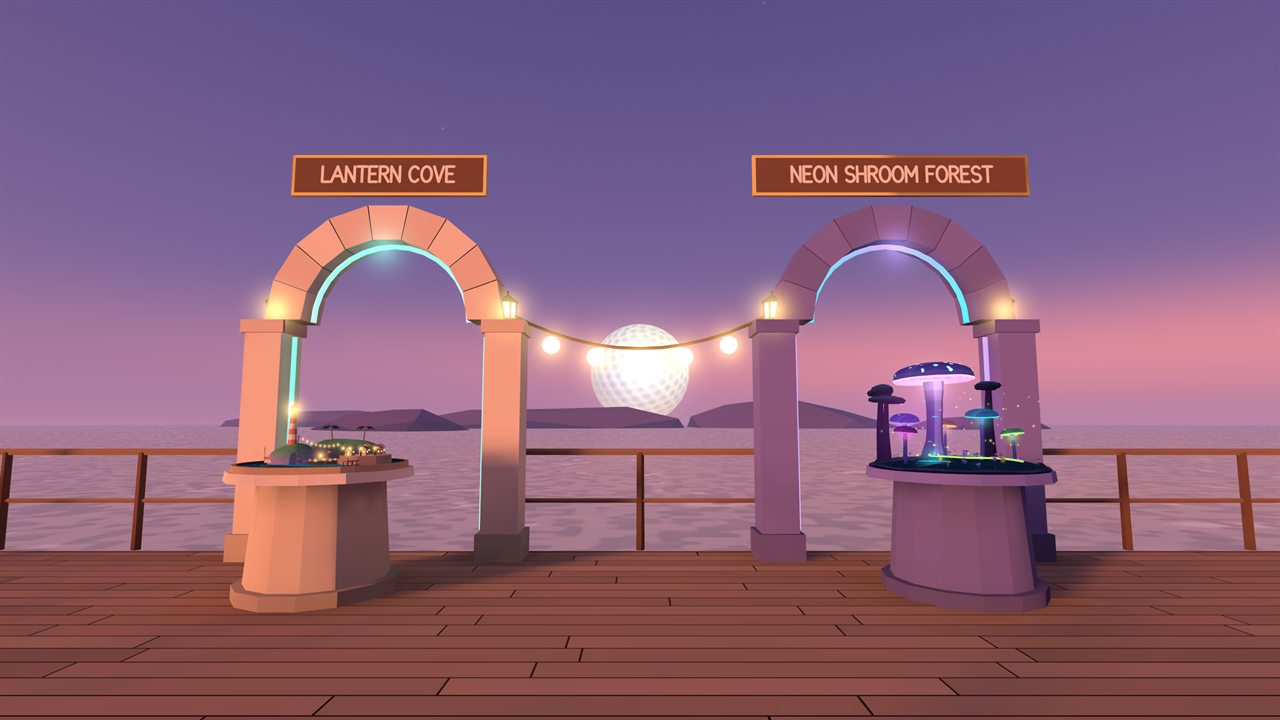
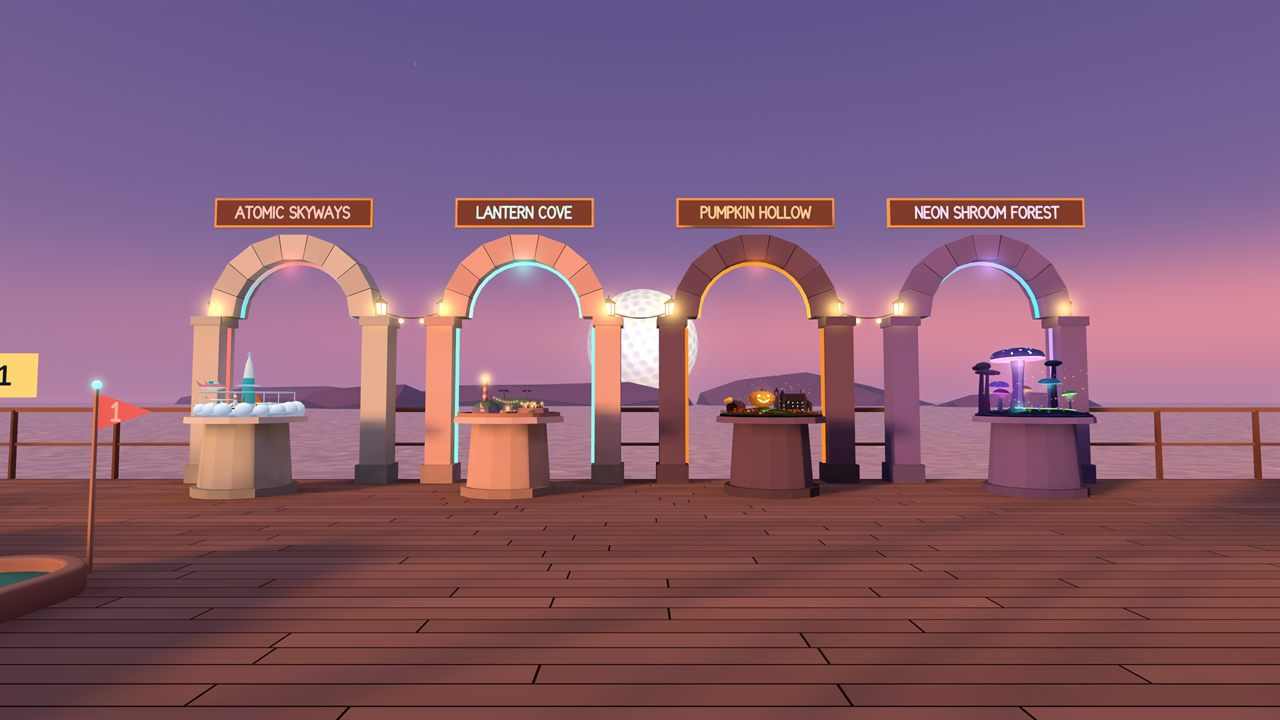
Home page: the four store courses (Pumpkin Hollow and Atomic Skyways added), out now with a store link, the four-portal clubhouse, new screenshots; no hand-crafted claim

diff --git a/index.html b/index.html
@@ -4,7 +4,7 @@
   <meta charset="utf-8">
   <meta name="viewport" content="width=device-width, initial-scale=1">
   <title>Moonrise Mini Golf</title>
-  <meta name="description" content="Moonrise Mini Golf: two hand-crafted 18-hole courses for Meta Quest 2, 3 and 3S. Real putting physics, a golden-hour seaside cove and a moonlit forest of glowing mushrooms, a clubhouse with a quick tutorial, and online play with voice for up to four friends. Free.">
+  <meta name="description" content="Moonrise Mini Golf: free mini golf for Meta Quest 2, 3 and 3S. Four 18-hole courses (a golden-hour seaside cove, a glowing mushroom forest, a Halloween pumpkin hollow and a sunny retro city in the sky), real putting physics, and private online games with voice for up to four friends.">
   <meta name="theme-color" content="#0b1026">
   <link rel="icon" href="assets/favicon.png">
   <link rel="apple-touch-icon" href="assets/icon-180.png">
@@ -25,10 +25,11 @@
   <header class="hero">
     <div class="content">
       <h1 style="margin:0"><img class="logo" src="assets/logo.png" alt="Moonrise Mini Golf"></h1>
-      <p class="tag">Two hand-crafted courses. Real putting. Friends along for the round.</p>
-      <p class="sub">Coming to the Meta Horizon Store for Meta Quest 2, 3 and 3S &middot; Free, no in-app purchases</p>
+      <p class="tag">Four courses. Real putting. Friends along for the round.</p>
+      <p class="sub">Out now on the Meta Horizon Store for Meta Quest 2, 3 and 3S &middot; Free, no in-app purchases</p>
       <div class="buttons">
-        <a class="btn" href="#courses">See the courses</a>
+        <a class="btn" href="https://www.meta.com/experiences/moonrise-mini-golf/1323225157541852/">Get it free on the Meta Horizon Store</a>
+        <a class="btn ghost" href="#courses">See the courses</a>
         <a class="btn ghost" href="#gallery">Screenshots</a>
       </div>
     </div>
@@ -38,9 +39,9 @@
     <section id="clubhouse">
       <div class="wrap">
         <h2><span class="eyebrow">Start here</span>The Moonrise Clubhouse</h2>
-        <p class="lead">A lantern-lit terrace over a twilight sea, with the golf-ball moon rising between two portals. A two-minute tutorial on the practice greens teaches you to putt, move and bank a shot. Pick your ball, warm up on the practice green, meet friends, then walk up to a portal and play.</p>
+        <p class="lead">A lantern-lit terrace over a twilight sea, with the golf-ball moon rising behind a row of portals. A two-minute tutorial on the practice greens teaches you to putt, move and bank a shot. Pick your ball, warm up on the practice green, meet friends, then walk up to a portal and play.</p>
         <div class="gallery">
-          <figure><img loading="lazy" src="assets/shots/lobby_portals.jpg" alt="Two stone arches with miniature dioramas of Lantern Cove and Neon Shroom Forest, a golf-ball moon rising over the sea between them"><figcaption>Portals to both courses</figcaption></figure>
+          <figure><img loading="lazy" src="assets/shots/lobby_portals.jpg" alt="Four stone arches on the clubhouse terrace, each with a miniature diorama of its course: Atomic Skyways, Lantern Cove, Pumpkin Hollow and Neon Shroom Forest, the golf-ball moon rising over the sea behind them"><figcaption>Portals to the four courses</figcaption></figure>
           <figure><img loading="lazy" src="assets/shots/lobby_clubhouse.jpg" alt="The Moonrise Clubhouse and its round practice green on a wooden terrace at dusk"><figcaption>The clubhouse and practice green</figcaption></figure>
         </div>
       </div>
@@ -48,21 +49,35 @@
 
     <section id="courses">
       <div class="wrap">
-        <h2><span class="eyebrow">36 holes</span>Golden hour to moonrise</h2>
-        <p class="lead">Two worlds, eighteen holes each. Every hole teaches one idea, has an honest safe route and a real hole-in-one line, and is a place worth standing in.</p>
+        <h2><span class="eyebrow">72 holes</span>Four worlds to putt through</h2>
+        <p class="lead">Four worlds, eighteen holes each. Every hole has an honest safe route and a real hole-in-one line, and is a place worth standing in.</p>
         <div class="courses">
           <article class="course">
             <img class="art" src="assets/shots/cove_h14_waterfall_pools.jpg" alt="Terraced greens stepping down a sunlit cliff above the cove">
             <div class="body">
-              <h3><small>Course one · par 49</small>Lantern Cove</h3>
+              <h3><small>Course one</small>Lantern Cove</h3>
               <p>A golden-hour seaside cove. Bank off a giant conch, putt along stilt-village boardwalks and through a glowing sea-glass grotto, send your ball down pipes and past a shipwreck, and finish under the lighthouse at the Lantern Heart. An ace sets off fireworks over the bay.</p>
             </div>
           </article>
           <article class="course forest">
             <img class="art" src="assets/shots/forest_h18_mother_shroom.jpg" alt="A glowing green leading toward the giant Mother Shroom under a full moon">
             <div class="body">
-              <h3><small>Course two · par 46</small>Neon Shroom Forest</h3>
+              <h3><small>Course two</small>Neon Shroom Forest</h3>
               <p>Night in a hushed, bioluminescent forest under a huge moon. Roll through root tunnels and down a log flume, past chiming crystal caps and glowing mushrooms, and climb the towering Mother Shroom for the finale.</p>
+            </div>
+          </article>
+          <article class="course hollow">
+            <img class="art" src="assets/shots/hollow_h18_great_jack.jpg" alt="The final green beneath the Great Jack, a giant glowing jack-o'-lantern, with vine tubes curling down from it">
+            <div class="body">
+              <h3><small>Course three</small>Pumpkin Hollow</h3>
+              <p>A cozy Halloween night under the harvest moon. Cross the covered bridge, putt into a witch's cauldron, find the manor's secret passage and finish inside the Great Jack as lantern drones light the sky.</p>
+            </div>
+          </article>
+          <article class="course skyways">
+            <img class="art" src="assets/shots/skyways_h18_liftoff.jpg" alt="The last green running toward the Starliner's launch tower and its Launch Control board">
+            <div class="body">
+              <h3><small>Course four</small>Atomic Skyways</h3>
+              <p>Sunny days in the city of tomorrow. Putt through the Sparkle-Jet Car Wash, across a saucer skating rink and into the Stardome, then watch the Starliner lift off on 18.</p>
             </div>
           </article>
         </div>
@@ -114,7 +129,7 @@
     <section id="gallery">
       <div class="wrap">
         <h2><span class="eyebrow">Straight from the game</span>Screenshots</h2>
-        <p class="lead">Rendered in the game engine from the real game: the clubhouse and holes from both courses. The hole-in-one is a real putt from the game's own physics.</p>
+        <p class="lead">Rendered in the game engine from the real game: the clubhouse and holes from all four courses. The hole-in-one is a real putt from the game's own physics.</p>
         <div class="gallery">
           <figure><img loading="lazy" src="assets/shots/cove_h01_banking_past_the_conch.jpg" alt="A golf ball rides the rail past the mouth of a giant conch shell"><figcaption>Welcome Ashore: banking past the giant conch</figcaption></figure>
           <figure><img loading="lazy" src="assets/shots/forest_h03_root_tunnel.jpg" alt="A glowing green running into a tunnel of luminous roots at night"><figcaption>Root Tunnel</figcaption></figure>
@@ -124,6 +139,12 @@
           <figure><img loading="lazy" src="assets/shots/forest_h01_tee_vista.jpg" alt="A winding green among glowing mushrooms, the Mother Shroom and the moon beyond"><figcaption>Moonlit Clearing</figcaption></figure>
           <figure><img loading="lazy" src="assets/shots/cove_h17_shipwreck_reef.jpg" alt="A green curling around a wrecked ship's hull below the lighthouse"><figcaption>Shipwreck Reef</figcaption></figure>
           <figure><img loading="lazy" src="assets/shots/cove_h18_lantern_heart.jpg" alt="A heart-shaped green ringed with lanterns beside the lighthouse"><figcaption>The Lantern Heart</figcaption></figure>
+          <figure><img loading="lazy" src="assets/shots/hollow_h08_covered_bridge.jpg" alt="A green running into a red covered bridge over a creek, a village and a glowing pumpkin beyond under the moon"><figcaption>Covered Bridge</figcaption></figure>
+          <figure><img loading="lazy" src="assets/shots/skyways_h03_car_wash.jpg" alt="A blue green running into a car wash with pastel brushes on a sunny rooftop"><figcaption>Sparkle-Jet Car Wash</figcaption></figure>
+          <figure><img loading="lazy" src="assets/shots/hollow_h09_witchs_cauldron.jpg" alt="A green ending at a swirling purple cauldron pool at night"><figcaption>Witch's Cauldron</figcaption></figure>
+          <figure><img loading="lazy" src="assets/shots/skyways_h07_saucer_rink.jpg" alt="A white skating rink of a green with orange saucer circles under a canopy"><figcaption>Saucer Rink</figcaption></figure>
+          <figure><img loading="lazy" src="assets/shots/skyways_h10_stardome.jpg" alt="A blue green with planets and a swirl hanging over it in a domed hall"><figcaption>Stardome</figcaption></figure>
+          <figure><img loading="lazy" src="assets/shots/hollow_finale_fireworks.jpg" alt="Fireworks bursting over Pumpkin Hollow's village at night"><figcaption>Pumpkin Hollow's finale</figcaption></figure>
           <figure><img loading="lazy" src="assets/shots/cove_h01_hole_in_one_fireworks.jpg" alt="Fireworks over the cove and lighthouse after a hole-in-one"><figcaption>A hole-in-one lights up the sky</figcaption></figure>
           <figure><img loading="lazy" src="assets/shots/cove_h01_tee_address.jpg" alt="First-person view of the blade putter behind the ball on the first tee"><figcaption>Lining up on the first tee</figcaption></figure>
         </div>

diff --git a/assets/site.css b/assets/site.css
@@ -87,6 +87,8 @@ h2 .eyebrow { display: block; font-size: 14px; letter-spacing: 0.22em; text-tran
 .course h3 { font-size: 24px; }
 .course h3 small { display: block; font-size: 13px; font-weight: 700; letter-spacing: 0.18em; text-transform: uppercase; color: var(--gold); margin-bottom: 4px; }
 .course.forest h3 small { color: var(--aqua); }
+.course.hollow h3 small { color: #ff9a4d; }
+.course.skyways h3 small { color: #7fd3ff; }
 .course p { color: var(--muted); margin: 0; }
 
 .features { display: grid; grid-template-columns: repeat(4, 1fr); gap: 20px; margin-top: 30px; }
